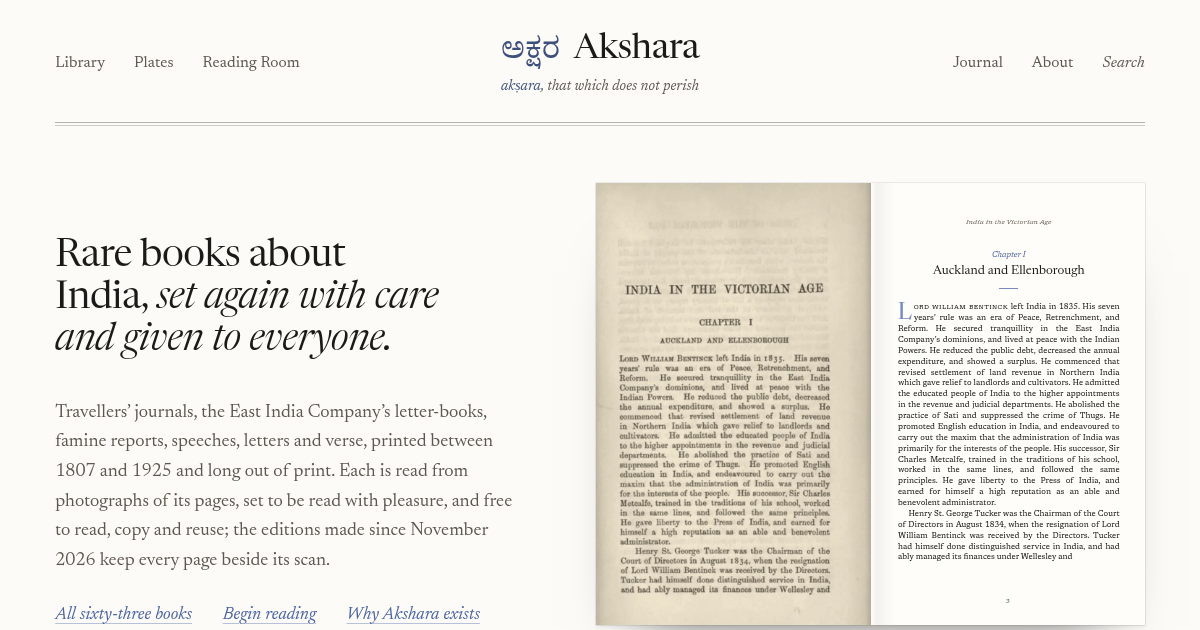
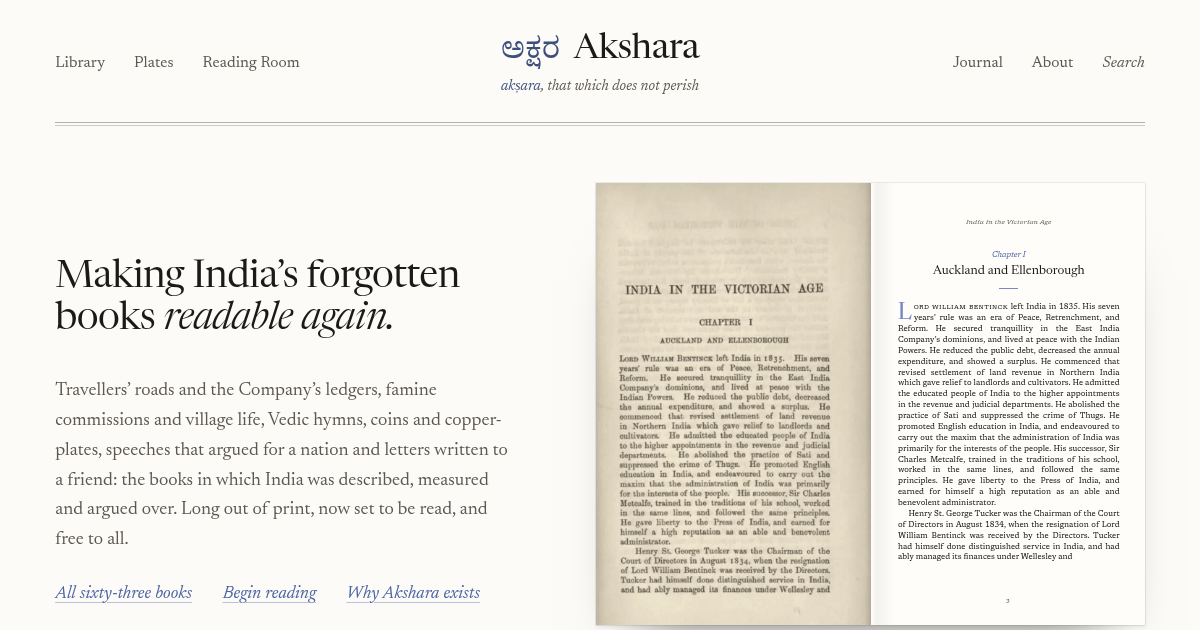
copy(home): headline 'Making India's forgotten books readable again'
The owner's March headline, with 'again', in place of 'Rare books about
India, set again with care and given to everyone', which was vague and used
printer's language. The site description and the link-preview image follow.

diff --git a/layouts/home.html b/layouts/home.html
@@ -9,7 +9,7 @@
 
 <header class="op wrap">
   <div class="op-text">
-    <h1 class="op-title">Rare books about India, <em>set again with care and given to everyone.</em></h1>
+    <h1 class="op-title">Making India’s forgotten books <em>readable again.</em></h1>
     <div class="op-lede">
       <p>Travellers’ roads and the Company’s ledgers, famine commissions and village life, Vedic hymns, coins and copper-plates, speeches that argued for a nation and letters written to a friend: the books in which India was described, measured and argued over. Long out of print, now set to be read, and free to all.</p>
       <p class="op-links"><a href="/books/">All {{ partial "words.html" $count }} books</a><a href="{{ $featFirst.RelPermalink }}">Begin reading</a><a href="/about/">Why Akshara exists</a></p>
